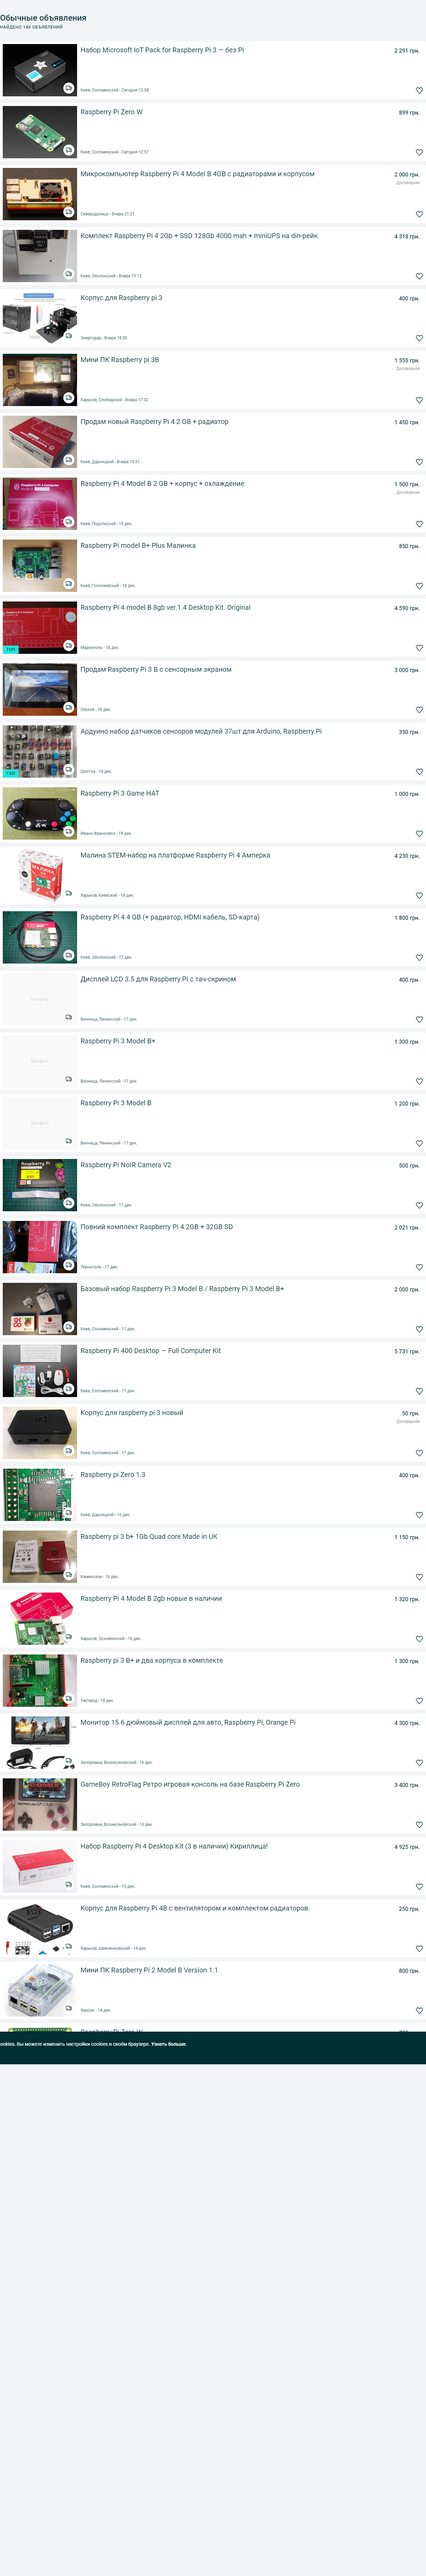
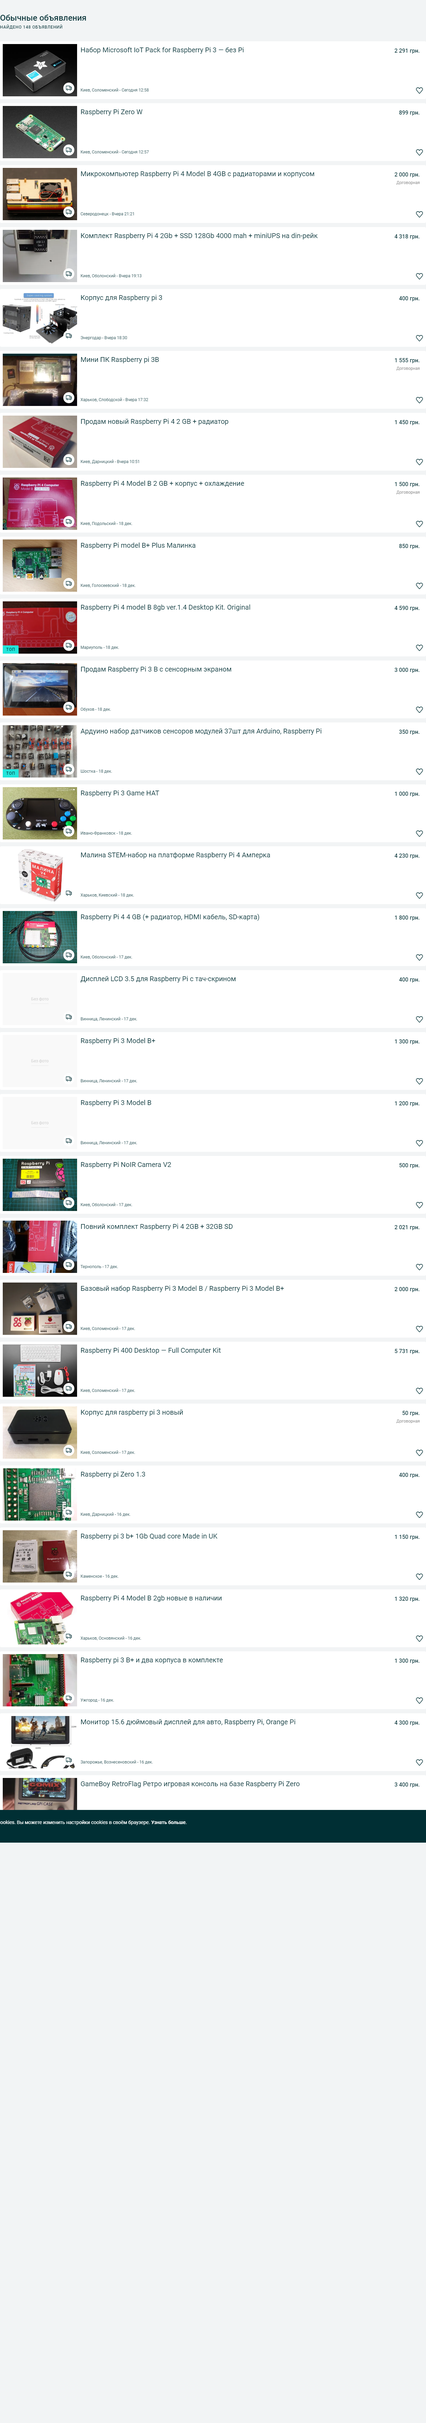
update

diff --git a/HT_10/selenium_scrape.py b/HT_10/selenium_scrape.py
@@ -32,15 +32,15 @@ driver.get(url)
 # 	( document.body.scrollHeight, document.body.offsetHeight, document.documentElement.clientHeight, \
 # 	document.documentElement.scrollHeight, document.documentElement.offsetHeight )")
 # get scroll height without math
-height = driver.execute_script("return document.body.scrollHeight")
-print('height = ', height)
+h0 = driver.execute_script("return document.body.scrollHeight")
+print('height = ', h0)
 #close browser
 driver.close()
 
 # browser options: headless with height extracted above
 chrome_options = Options()
 chrome_options.add_argument("--headless")
-chrome_options.add_argument(f"--window-size=1920,{height}")
+chrome_options.add_argument(f"--window-size=1920,{h0}")
 chrome_options.add_argument("--hide-scrollbars")
 # run webdriver and get content
 driver = webdriver.Chrome(drv_path, options=chrome_options)
@@ -73,12 +73,16 @@ s_table1 = driver.find_element_by_xpath("//div[@class = 'content']//table")
 s_table1.screenshot('olx_search1.png')
 
 s_table2 = driver.find_element_by_id('offers_table')
+# s_table2 = driver.find_elements_by_xpath("//*[contains(text(), 'fixed offers breakword redesigned')]")
 # image re-size 
 curr_win_size = driver.get_window_size()
-sz = s_table2.size
-h = sz['height']
-driver.set_window_size(curr_win_size['width'], h + 200)
+sz1 = s_table1.size
+h1 = sz1['height']
+sz2 = s_table2.size
+h2 = sz2['height']
+driver.set_window_size(curr_win_size['width'], h2 - h1)
 s_table2.screenshot('olx_search2.png')
 # close web driver
 driver.close()
+print(h2, h1)
 print(curr_url, '\n', new_url)
